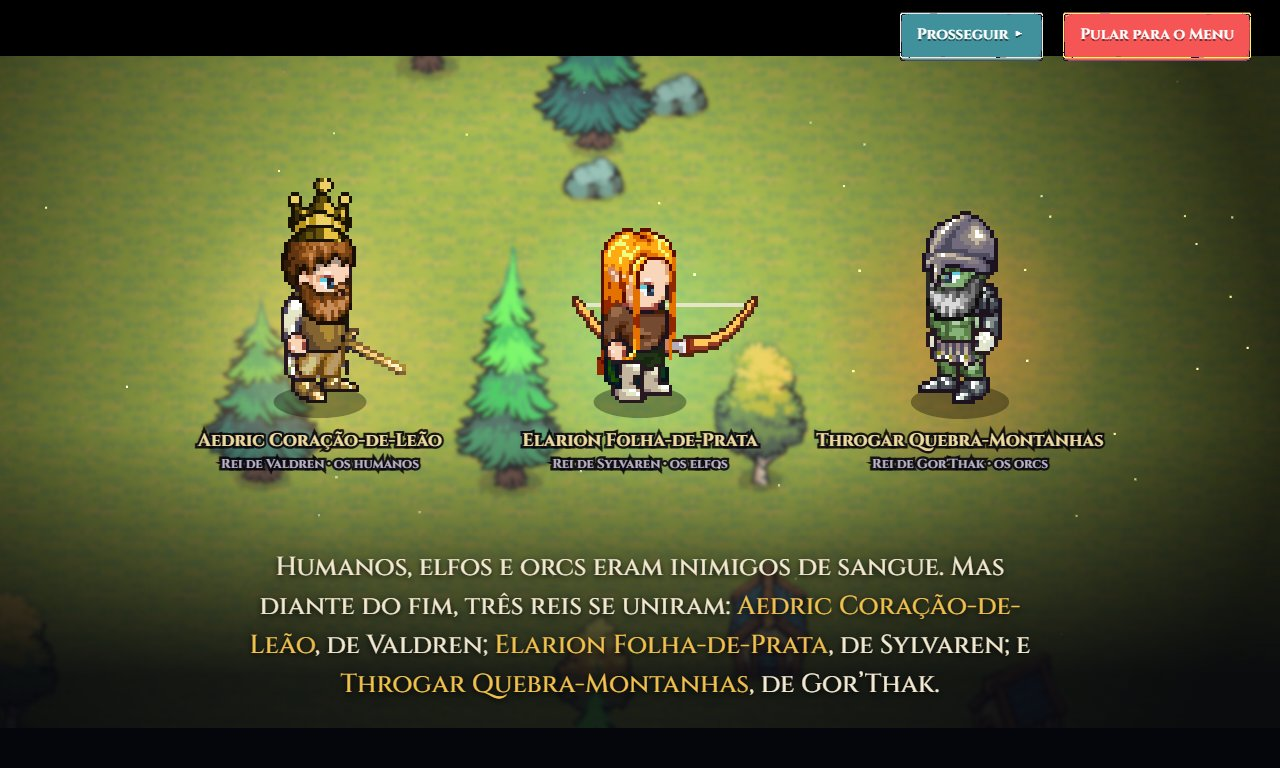
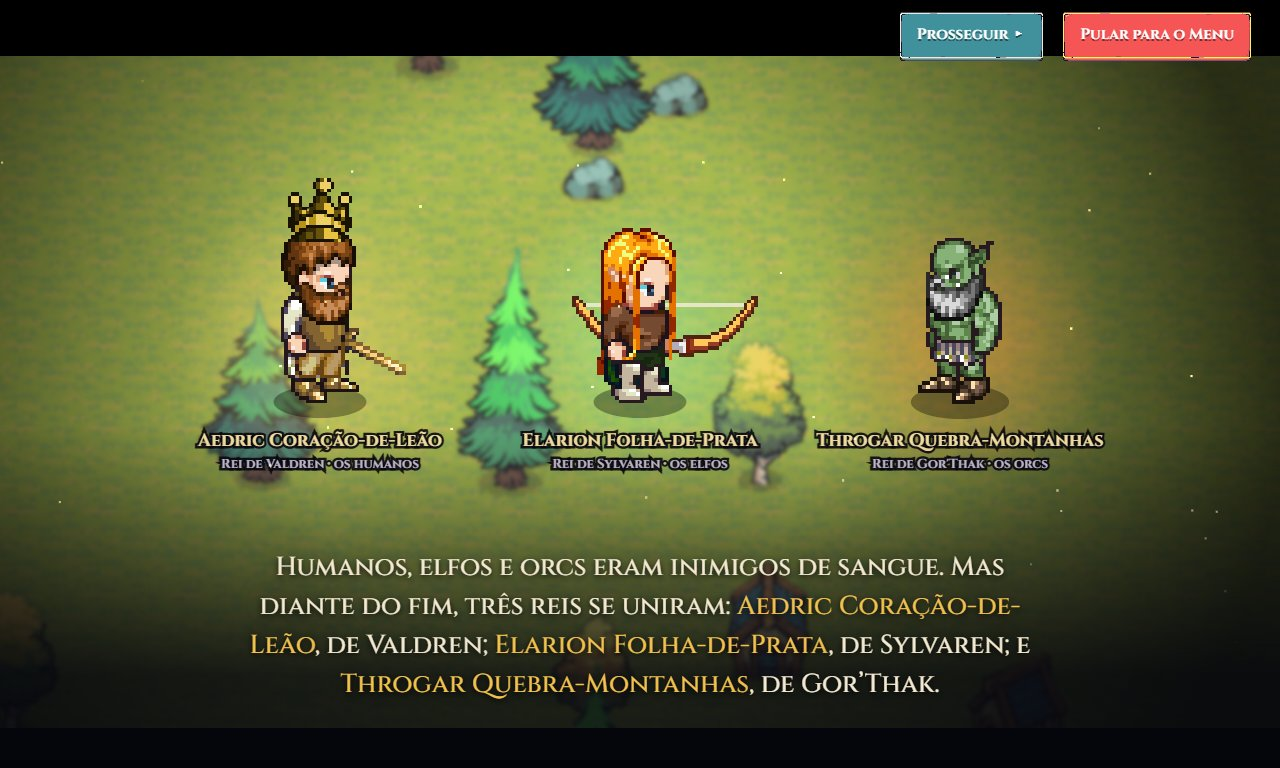
Site: Durgan e Throgar com cabeça de orc (sprites, introdução e batalha)

diff --git a/crown-of-aureth/index.html b/crown-of-aureth/index.html
@@ -108,7 +108,7 @@
         <div class="grid">
           <a href="img/battle-aim.jpg"><img src="img/battle-aim.jpg" alt="Elarion mirando o Tiro Certeiro num diabrete, com a área e o dano previstos" loading="lazy"></a>
           <a href="img/intro-kings.jpg"><img src="img/intro-kings.jpg" alt="Os três reis na introdução: Aedric, Elarion e Throgar" loading="lazy"></a>
-          <a href="img/battle-orc.jpg"><img src="img/battle-orc.jpg" alt="Batalha com o Rei Aldric, Elarion, Durgan, Lyra e Lirien" loading="lazy"></a>
+          <a href="img/battle-orc.jpg"><img src="img/battle-orc.jpg" alt="Durgan e o Clã enfrentando Brutamontes, Caçadores e o Xamã dos clãs orcs" loading="lazy"></a>
           <a href="img/map-wide.jpg"><img src="img/map-wide.jpg" alt="Mapa do reino de Aureth com as fases de Gor'Thak" loading="lazy"></a>
           <a href="img/hq.jpg"><img src="img/hq.jpg" alt="QG do Clã com os atributos e o equipamento do Rei Aldric" loading="lazy"></a>
           <a href="img/tree.jpg"><img src="img/tree.jpg" alt="Árvore de carreira da maga Lyra" loading="lazy"></a>
